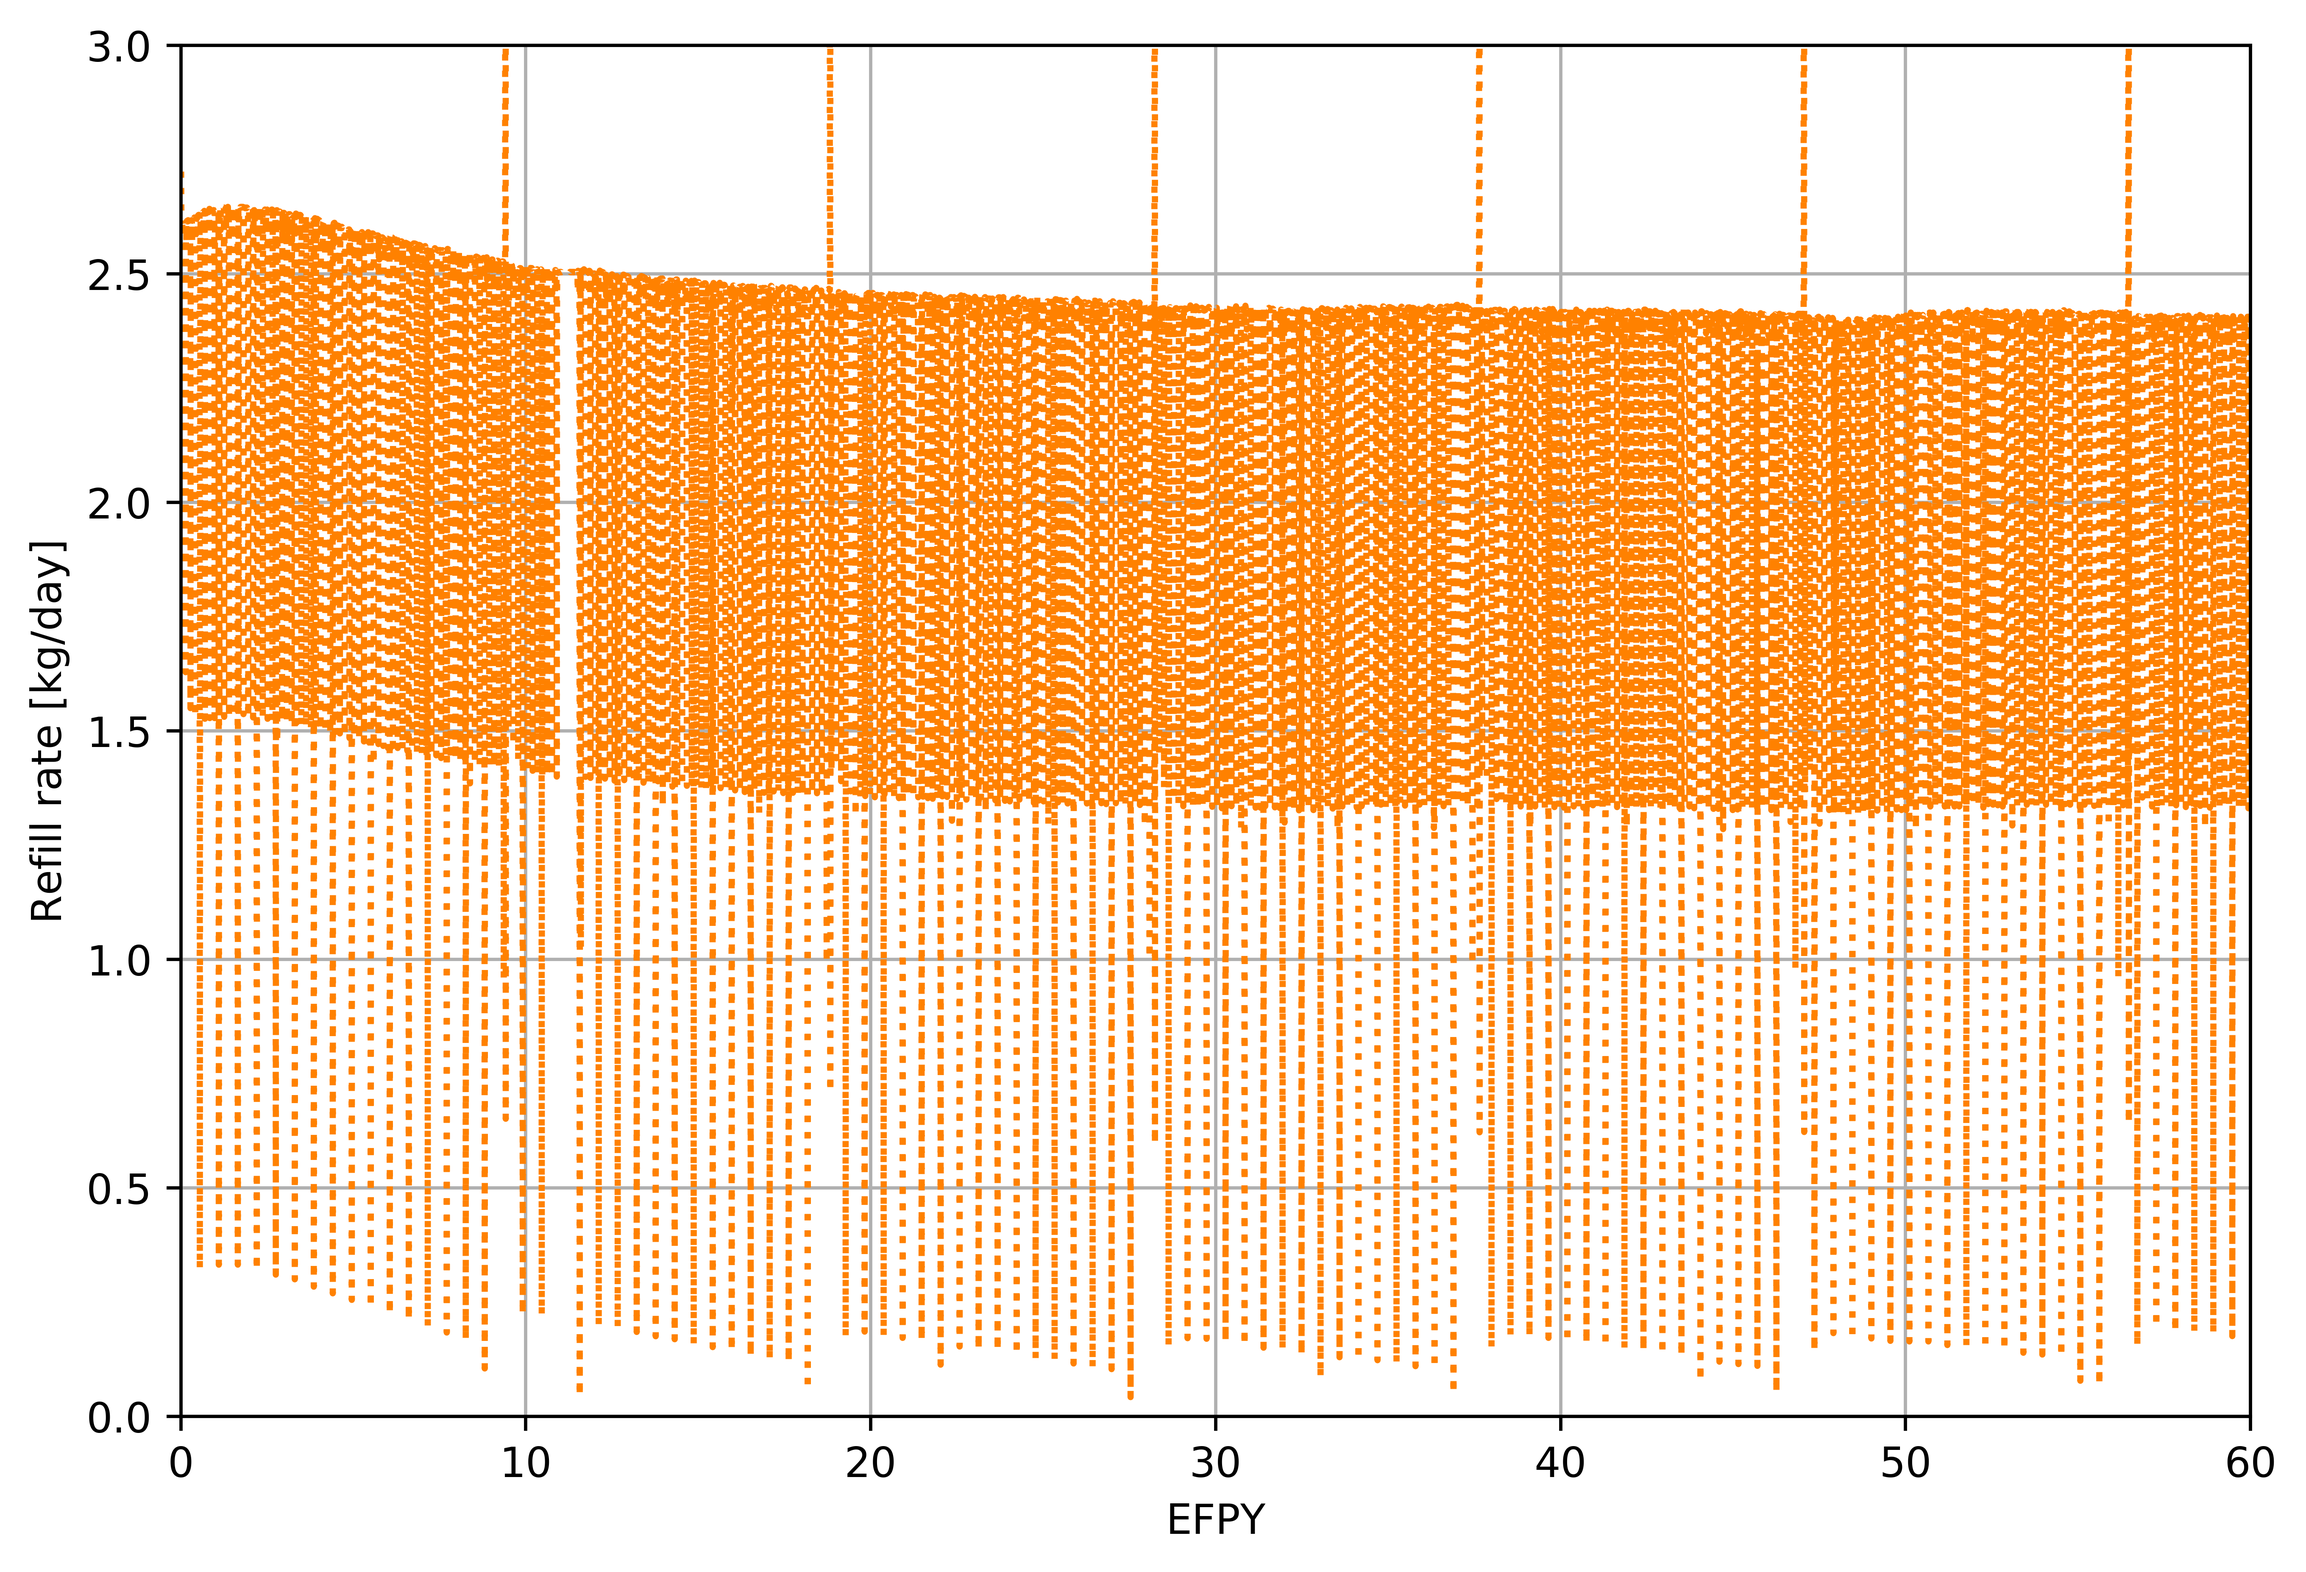
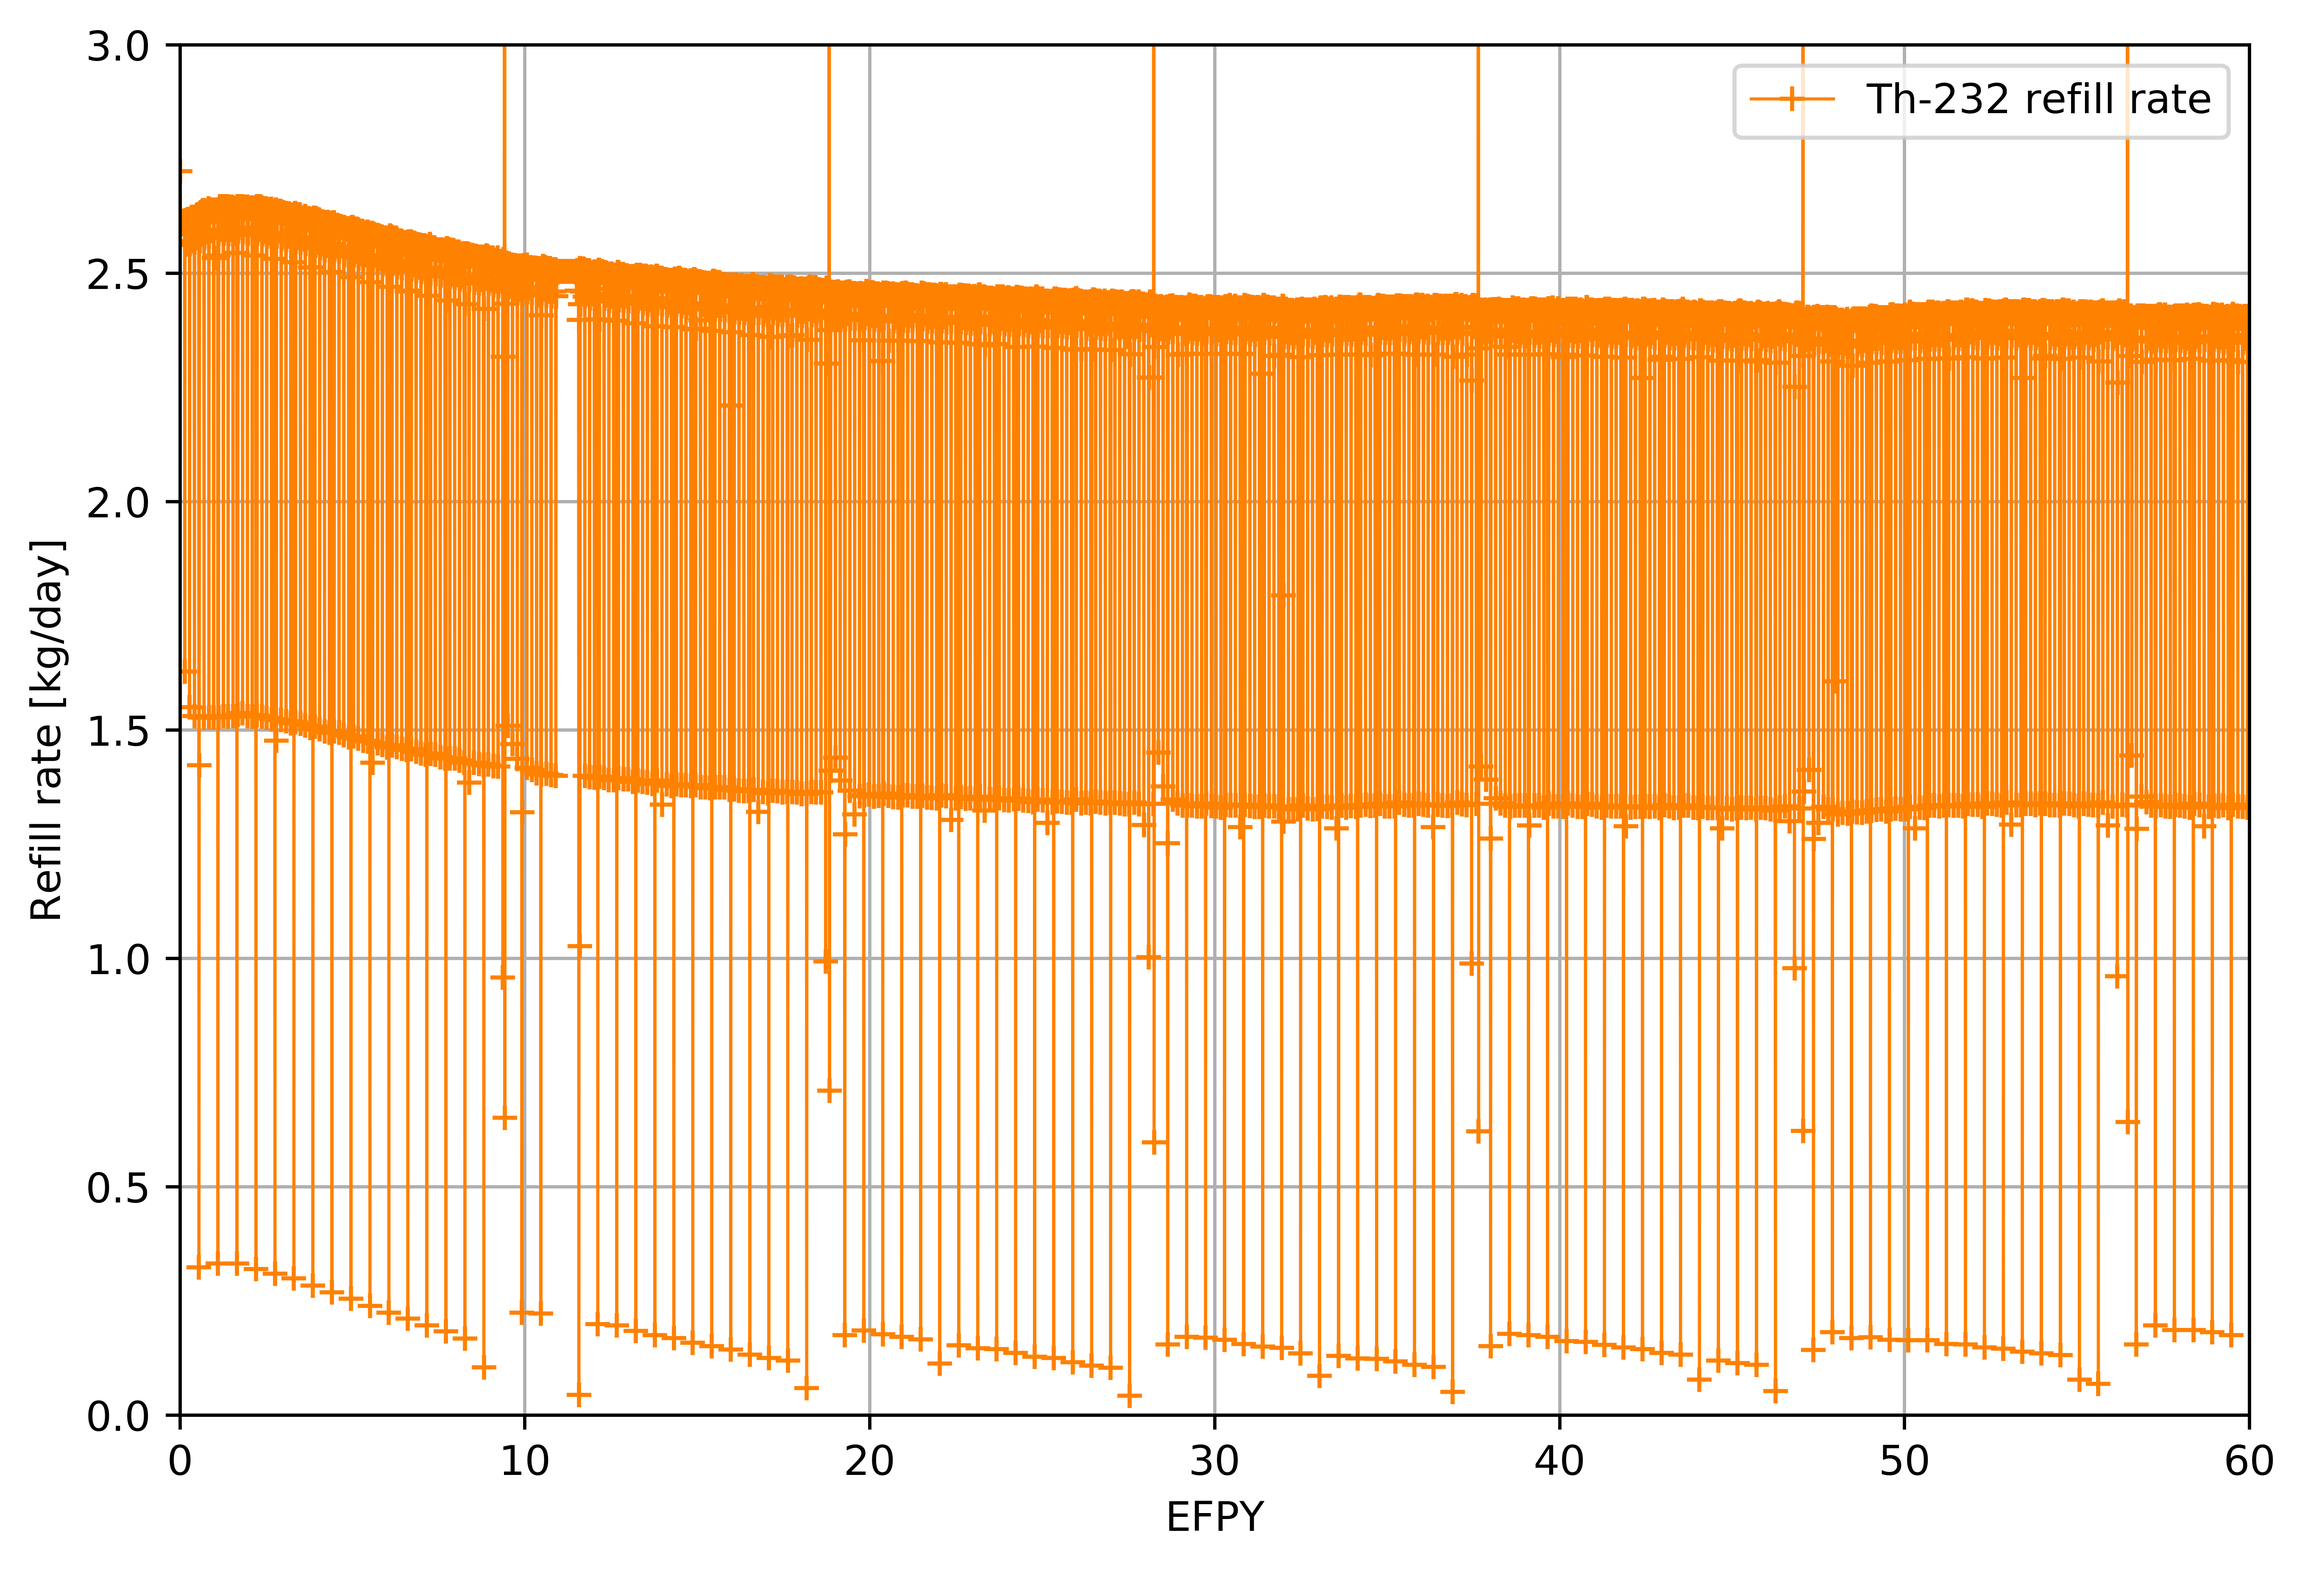
Zoomed Th refill rate added

Changed region(s): [[0.0622, 0.1242, 0.9945, 0.9006], [0.7459, 0.0311, 0.9634, 0.0932]]

diff --git a/revisions/review-responses.tex b/revisions/review-responses.tex
@@ -95,10 +95,10 @@
 \usepackage[hyphens]{url}
 
 
-%\usepackage[acronym,toc]{glossaries}
-%\include{acros}
+\usepackage[acronym,toc]{glossaries}
+\include{acros}
 
-%\makeglossaries
+\makeglossaries
 
 %\journal{Annals of Nuclear Energy}
 
@@ -238,9 +238,7 @@ paper.
         MSR removal capability? If so, what is different about using SaltProc 
         with SERPENT?
         \begin{solution}
-                It does. We tried use it before but these capabilities needs 
-                to be verified. Additional text to clarify this point has 
-                been add to solution for question 21.                
+                <++>
         \end{solution}
 
         %---------------------------------------------------------------------
@@ -251,7 +249,8 @@ paper.
         period and how would this be controlled in reality? The graph almost 
         suggests that the core is unstable??
         \begin{solution}
-                <++>
+                Zoomed portion for 150 EFPD interval has been added. We also 
+                added notes on a plot to explain swing in multiplication factor.
         \end{solution}
 
         %---------------------------------------------------------------------
@@ -292,7 +291,7 @@ paper.
         
 		         Small dips in neptunium and plutonium number density every 16 years are 
 		         caused by removing $^{237}$Np, $^{242}$Pu (included in Processing group 
-		         ``Higher nuclides'', see Table 3) which decays
+		         ``Higher nuclides'', see Table~\ref{tab:reprocessing_list}) which decays
         		  into $^{235}$Np, $^{239}$Pu, respectively. 
         \end{solution}
 
@@ -343,8 +342,8 @@ paper.
                 Sentence has been extended as follows:
                 
                 ...the total temperature coefficient of reactivity is relatively large and
-                 negative during reactor operation (comparing with conventional PWR which 									temperature coefficient about -1.71 pcm/$^\circ$F $\approx$ -3.08 pcm/K 									\cite{forget_integral_2018}), despite positive MTC, and affords excellent 
-                reactor stability and control.
+                 negative during reactor operation (comparing with conventional PWR which 							temperature coefficient about -1.71 pcm/$^\circ$F $\approx$ -3.08 pcm/K 							\cite{forget_integral_2018}), despite positive MTC, and affords excellent 
+                 reactor stability and control.
         \end{solution}
 
         %---------------------------------------------------------------------
@@ -391,42 +390,7 @@ paper.
         should slightly restructure the paper in order to prove the claimed 
         advantages over Serpent 2.
         \begin{solution}
-                Thank you for your kind review. We tried to use these capabilities 
-                \cite{rykhlevskii_online_2017} but have had number of issues which 
-                are hard to resolve due to lack of documentation and publications 
-                involving this feature. Following paragraph has been added to 
-                clarify why these capabilities have not been used in current work:
-                
-                We employed this extended SERPENT2 for a simplified unit-cell 
-                geometry of thermal spectrum thorium-fueled MSBR and have had 
-                following problems: (1) lack of documentation describing how 
-                to use this built-in SERPENT2 online reprocessing capabilities
-                \footnote{ Some challenges in no particular order: mass 
-                conservation is hard to achieve; not clear when use mflow card 
-                type 0, 1 or 2; difference between CRAM and TTA results; etc.} 
-				(Discussion forum for SERPENT users is only useful 
-				source of information at the moment); (2) reactivity control 
-				module described in Aufiero \emph{et al.} is not available 
-				in the latest SERPENT 2.1.30 release; (3) infinite multiplication 
-				factor behavior for simplified unit-cell model obtained using 
-				SERPENT2 built-in capabilities \cite{rykhlevskii_online_2017} 
-				does not match with exist MCNP6/Python-script results for the 
-				similar model by Jeong and Park\footnote{ In our study 
-				k$_{\infty}$ drops from 1.05 to 1.005 during a 1200 days of 
-				depletion simulation while in Jeong and Park work this parameter 
-				decreasing slowly from 1.065 to 1.05 for the 
-				similar time-frame.} \cite{jeong_equilibrium_2016}; (4) only few 
-				publication \cite{aufiero_extended_2013, ashraf_nuclear_2018} 
-				using these capabilities are available which is indicative of 
-				lack of reproducibility. Nevertheless, truly continuous 
-				online reprocessing capabilities of SERPENT2 is desirable feature 
-				for our future research. However, these capabilities should be 
-				carefully verified against ChemTriton/SCALE or proposed 
-				SaltProc/SERPENT2 package, and could be employed 
-				for removal of fission products with shorter residence time 
-				(e.g., Xe, Kr) which have a strong negative impact on core 
-				lifetime and breeding efficiency which we intent to do in 
-				the nearest future.
+                <++>
         \end{solution}
 
         %---------------------------------------------------------------------
@@ -516,12 +480,8 @@ paper.
                  
 				Current version of SaltProc only allows separate out 100\% of 
 				specific elements or group of elements (e.g. Processing Groups 
-				as described in Table 3) at the end
-				 of the specific cycle time which means the average time spent 
-				by a fission product in the core is equal cycle time. That is 
-				simplification because in reality fuel salt resides approximately 
-				1/2 of total time in the core and rest of the time in the primary 
-				loop pipes and the heat exchanger. This approach works well for 
+				as described in Table 3 at the end
+				 of the specific cycle time. This approach works well for 
 				fast-removing elements (gases, noble metals, protactinium) which 
 				should be removed each depletion step. Unfortunately, for the 
 				elements with longer cycle time (i.e. rare earths should be removed 
@@ -530,8 +490,7 @@ paper.
 				 this drawback will be eliminated by removing elements with longer 
 				cycle times using different method: only mass fraction (calculated 
 				separately for each reprocessing group) will be removed each 
-				depletion step or batch (e.g. in the current work it was chosen 
-				3 days).	
+				depletion step (e.g. 3 days).	
         \end{solution}
 
         %---------------------------------------------------------------------
@@ -769,7 +728,7 @@ paper.
         thermal spectrum thorium-fueled MSBR and obtained results which 
         contradict existing MSBR depletion simulations.''
         \begin{solution}
-                This statement has been significantly extended (see Solution 21).
+                <++>
         \end{solution}
 
         %--------------------------------------------------------------------

diff --git a/results.tex b/results.tex
@@ -20,13 +20,12 @@ approximately 9,900 node-hours (18 core-years.)
 
 \subsection{Effective multiplication factor}
 Figures~\ref{fig:keff}, \ref{fig:keff_zoomed} show the effective multiplication factors 
-obtained using SaltProc and SERPENT 2. The effective multiplication factors were 
+obtained using SaltProc and SERPENT2. The effective multiplication factors were 
 calculated after removing fission products listed in 
 Table~\ref{tab:reprocessing_list} and adding the fertile material at the end of 
 cycle time (3 days for this work). The effective multiplication 
 factor fluctuates significantly as a result of the batch-wise nature of this 
-online reprocessing strategy. Figure~\ref{fig:keff_zoomed} shows how different 
-reprocessing groups imposed on effective multiplication factor.
+online reprocessing strategy. 
 
 \begin{figure}[ht!] 
   \centering
@@ -38,7 +37,7 @@ reprocessing groups imposed on effective multiplication factor.
 \begin{figure}[ht!] 
   \centering
   \includegraphics[width=\textwidth]{keff_zoomed.png}
-  \caption{Effective multiplication factor for 150-EFPD time-frame.}
+  \caption{Zoomed effective multiplication factor for 150-EFPD time interval.}
   \label{fig:keff_zoomed}
 \end{figure}
 
@@ -361,6 +360,11 @@ intensification leads to additional $^{232}$Th consumption.
 \begin{figure}[ht!] % replace 't' with 'b' to force it to \centering
   \includegraphics[width=\textwidth]{Th_refill_rate.png} \caption{$^{232}$Th 
   feed rate over 60 years of \gls{MSBR} operation.}
+  \label{fig:th_refill}
+\end{figure}
+\begin{figure}[ht!] % replace 't' with 'b' to force it to \centering
+  \includegraphics[width=\textwidth]{Th_refill_rate_zoomed.png} \caption{Zoomed $^{232}$Th 
+  feed rate for 150-EFPD time interval.}
   \label{fig:th_refill}
 \end{figure}
 
